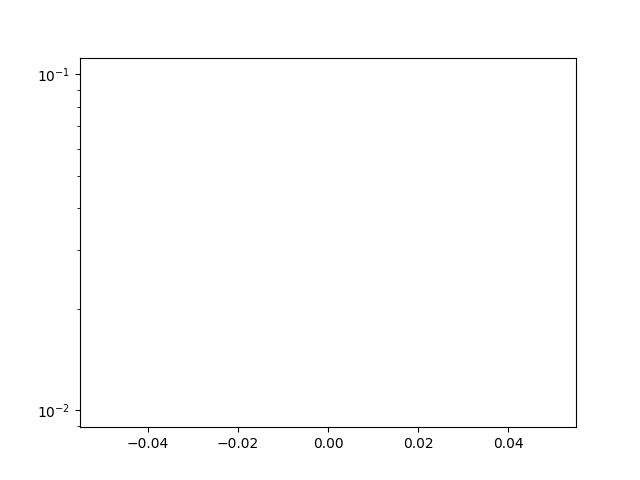
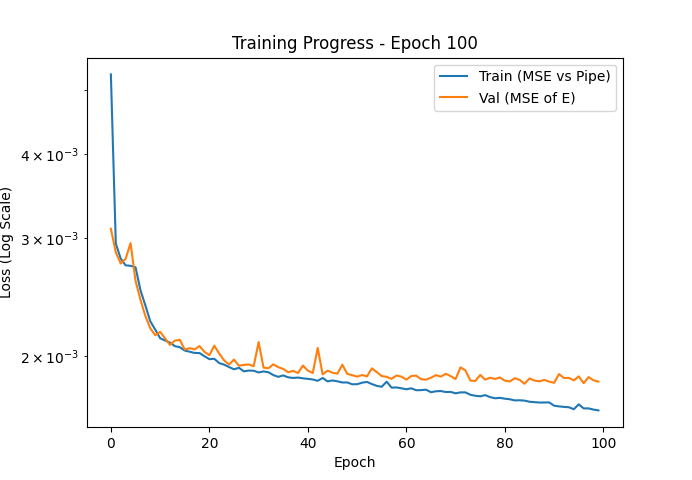
add split train/val/test and E computation from Pipe

diff --git a/dcf_generation/train_dcf.py b/dcf_generation/train_dcf.py
@@ -19,22 +19,19 @@ from dcf_utils import (
     plot_loss,
     plot_final_examples,
     train_step,
+    calculate_pipe_E,
+    plot_E_colormap,
 )
 from torch.utils.data import DataLoader
 from models import UNet1D, FourierCurve
 import os
 from datetime import datetime
 
-data_dir = "dcf_generation/train_data/"
-os.makedirs(data_dir, exist_ok=True)
 output_dir = "trained_models/"
-dataset = TrajectoryDCFDataset(data_dir)
 
-n_epochs = 2
+n_epochs = 100
 batch_size = 64
 learning_rate = 5e-4
-n_steps = 100  # total steps. After [n_epochs*len(train_data)/batch_size] steps, start computing dcfs if not already doing so.
-compute_dcfs = False
 
 device = torch.device("cuda") if torch.cuda.is_available() else torch.device("mps")
 print("Device:", device)
@@ -44,9 +41,6 @@ print("Device:", device)
 dcfnet = UNet1D(in_channels=2, out_channels=1, features=[16, 32, 64, 128, 256], kernel_size=5).to(device)
 # dcfnet = ResNet1D().to(device)
 
-if len(dataset) > 0:
-    dataloader = DataLoader(dataset, batch_size=batch_size, shuffle=True)
-    dataloader_cycle = cycle(dataloader)
 optimizer = torch.optim.AdamW(dcfnet.parameters(), lr=learning_rate)
 model = FourierCurve(
     tmin=0,
@@ -58,58 +52,111 @@ model = FourierCurve(
     angle_lvl=0.05,
 ).to(device)
 
-losses = []
-best_loss = float("inf")
+# --- Dataloaders ---
+base_data_dir = "dcf_generation/train_data/"
+train_dataset = TrajectoryDCFDataset(os.path.join(base_data_dir, "train"))
+val_dataset = TrajectoryDCFDataset(os.path.join(base_data_dir, "val"))
+test_dataset = TrajectoryDCFDataset(os.path.join(base_data_dir, "test"))
+
+train_dataloader = DataLoader(train_dataset, batch_size=batch_size, shuffle=True)
+val_dataloader = DataLoader(val_dataset, batch_size=batch_size, shuffle=False)
+test_dataloader = DataLoader(test_dataset, batch_size=batch_size, shuffle=False)
+
+
+# --- Training Loop ---
+best_val_loss = float("inf")
 t0 = time()
-dcfnet.train()
-for step in range(n_steps):
-    if step >= n_epochs * len(dataset) / batch_size:
-        compute_dcfs = True
-    if compute_dcfs:
-        with torch.no_grad():
-            rosette_batch = get_rosette_batch(model, batch_size, device=device)
-            dcf_batch = get_dcf_batch(rosette_batch)
-            # petal_batch = get_petal_batch_from_rosette(rosette_batch)
-            # dcf_petal_batch = get_dcf_petal_batch_from_dcf(dcf_batch)
-            for i in range(batch_size):
-                timestamp = datetime.now().strftime("%Y%m%d_%H%M%S")
-                # pt = petal_batch[i].detach().cpu().contiguous()
-                # dcf = dcf_petal_batch[i].detach().cpu().contiguous()
-                pt = rosette_batch[i].detach().cpu().contiguous()
-                dcf = dcf_batch[i].detach().cpu().contiguous()
-                torch.save((pt, dcf), os.path.join(data_dir, f"{timestamp}_{i}.pt"))
-    else:
-        # petal_batch, dcf_petal_batch = next(dataloader_cycle)
-        rosette_batch, dcf_batch = next(dataloader_cycle)
-    # loss, dcf_pred_batch = train_step(dcfnet, optimizer, petal_batch, dcf_petal_batch, device=device)
-    loss, dcf_pred_batch = train_step(dcfnet, optimizer, rosette_batch, dcf_batch, device=device)
-    if loss < 0.99 * best_loss:
-        torch.save((dcfnet.state_dict(), dcfnet.kernel_size, dcfnet.features), os.path.join(output_dir, f"dcfnet_{params["img_size"]}_{dcfnet.name}.pt"))
-        best_loss = loss
+train_losses_history = []
+val_losses_history = []
 
-    losses.append(loss)
-    if compute_dcfs == True or step % 20 == 0:
-        t0 = plot_loss(losses, step, n_steps, t0, batch_size)
+for epoch in range(n_epochs):
+    # Training Phase
+    dcfnet.train()
+    epoch_train_losses = []
+    
+    for rosette_batch, dcf_batch in train_dataloader:
+        loss, dcf_pred_batch = train_step(dcfnet, optimizer, rosette_batch, dcf_batch, device=device)
+        epoch_train_losses.append(loss)
+    
+    avg_train_loss = np.mean(epoch_train_losses)
+    train_losses_history.append(avg_train_loss)
 
+    # Validation Phase
+    dcfnet.eval()
+    epoch_val_losses = []
+    
+    with torch.no_grad():
+        for val_rosette_batch, val_dcf_batch in val_dataloader:
+            ktraj = val_rosette_batch.to(device).permute(0, 2, 1).contiguous()
+            val_dcf_batch = val_dcf_batch.to(device)
+            
+            dcf_pred_batch = dcfnet(ktraj).squeeze(1)
+            
+            val_loss = torch.mean((val_dcf_batch - dcf_pred_batch) ** 2)
+            epoch_val_losses.append(val_loss.item())
 
-print("FINAL LOSS", np.mean(losses[-100:]).item())
-plot_loss(losses, n_steps, n_steps, t0, batch_size, block=False)
+    avg_val_loss = np.mean(epoch_val_losses)
+    val_losses_history.append(avg_val_loss)
 
-rosette_batch = get_rosette_batch(model, 128, device=device)
-dcf_batch = get_dcf_batch(rosette_batch)
-# petal_batch = get_petal_batch_from_rosette(rosette_batch)
-# dcf_petal_batch = get_dcf_petal_batch_from_dcf(dcf_batch)
+    # Plot the losses
+    t0 = plot_loss(train_losses_history, val_losses_history, epoch, n_epochs, t0)
 
+    # Save Best Model
+    if avg_val_loss < best_val_loss:
+        torch.save((dcfnet.state_dict(), dcfnet.kernel_size, dcfnet.features), 
+                   os.path.join(output_dir, f"dcfnet_{params['img_size']}_{dcfnet.name}_best.pt"))
+        best_val_loss = avg_val_loss
+
+# --- Evaluation on Test Set ---
+print("\n--- Final Test Set Evaluation ---")
 dcfnet.eval()
+test_l1_losses, test_l2_losses = [], []
+
+last_ktraj = None
+last_dcf_pred = None
+
 with torch.no_grad():
-    for i in range(128):
-        timestamp = datetime.now().strftime("%Y%m%d_%H%M%S")
-        pt = rosette_batch[i].detach().cpu().contiguous()
-        dcf = dcf_batch[i].detach().cpu().contiguous()
-        torch.save((pt, dcf), os.path.join(data_dir, f"{timestamp}_{i}.pt"))
-    dcf_pred_batch = dcfnet(rosette_batch.permute(0, 2, 1)).squeeze(1)
-    l1loss = torch.mean((dcf_batch - dcf_pred_batch).abs())
-    l2loss = torch.mean((dcf_batch - dcf_pred_batch) ** 2)
-    plot_final_examples(dcf_batch, dcf_pred_batch)
-    print("Final L1 Loss:", l1loss.item())
-    print("Final L2 Loss:", l2loss.item())
+    for test_rosette_batch, test_dcf_batch in test_dataloader:
+        ktraj = test_rosette_batch.to(device).permute(0, 2, 1).contiguous()
+        test_dcf_batch = test_dcf_batch.to(device)
+        
+        dcf_pred_batch = dcfnet(ktraj).squeeze(1)
+        
+        l1loss = torch.mean((test_dcf_batch - dcf_pred_batch).abs())
+        l2loss = torch.mean((test_dcf_batch - dcf_pred_batch) ** 2)
+        
+        test_l1_losses.append(l1loss.item())
+        test_l2_losses.append(l2loss.item())
+        
+        last_ktraj = ktraj
+        last_dcf_pred = dcf_pred_batch
+
+print(f"Final Test L1 Loss: {np.mean(test_l1_losses):.6f}")
+print(f"Final Test L2 Loss: {np.mean(test_l2_losses):.6f}")
+
+# True vs Pred DCF
+plot_final_examples(test_dcf_batch, last_dcf_pred)
+
+# E Colormap
+print("Computing E = AA^HW for the final test batch...")
+
+with torch.no_grad():
+    # Calculate raw E
+    E_raw = calculate_pipe_E(last_dcf_pred, last_ktraj, params["img_size"], device)
+    
+    # Normalize E so the average density is exactly 1.0
+    E_normalized = E_raw / (E_raw.mean(dim=1, keepdim=True) + 1e-8)
+    
+    # Plot the colormap of the rosette trajectory
+    plot_E_colormap(E_normalized, last_ktraj)
+
+with torch.no_grad():
+    # Calculate raw E using the TRUE DCF
+    E_raw_true = calculate_pipe_E(test_dcf_batch, last_ktraj, params["img_size"], device)
+    
+    # Normalize
+    E_normalized_true = E_raw_true / (E_raw_true.mean(dim=1, keepdim=True) + 1e-8)
+    
+    # Plot the colormap of the true rosette density
+    print("Plotting TRUE DCF Effective Density...")
+    plot_E_colormap(E_normalized_true, last_ktraj)

diff --git a/dcf_generation/dcf_utils.py b/dcf_generation/dcf_utils.py
@@ -4,6 +4,7 @@ import torch
 from params import *
 from utils_3 import make_rosette, get_rotation_matrix
 from torchkbnufft import calc_density_compensation_function
+import torchkbnufft as tkbn
 import matplotlib.pyplot as plt
 from time import time
 import numpy as np
@@ -63,17 +64,23 @@ def plot_example(petal, block=True):
     plt.show(block=block)
 
 
-def plot_loss(losses, step, n_steps, t0, batch_size, block=False):
+def plot_loss(train_losses, val_losses, epoch, n_epochs, t0, block=False):
     plt.cla()
-    plt.semilogy(losses)
+    plt.semilogy(train_losses, label='Train')
+    plt.semilogy(val_losses, label='Val')
+    plt.legend()
+    plt.xlabel('Epoch')
+    plt.ylabel('Loss (Log Scale)')
+    plt.title(f'Training Progress - Epoch {epoch+1}')
     plt.pause(0.001)
     plt.savefig("dcf_generation/loss_plot.png")
     plt.show(block=block)
-    print("Step:", step, "/", n_steps)
-    print("Loss:", np.mean(losses[-10:]))
-    print("Batch size:", batch_size)
-    print("-" * 50)
-    print("Time", time() - t0)
+    
+    print("-" * 30)
+    print(f"Epoch: {epoch+1}/{n_epochs}")
+    print(f"Train Loss: {train_losses[-1]:.6f}")
+    print(f"Val Loss: {val_losses[-1]:.6f}")
+    print(f"Time: {time() - t0:.2f}s")
     return time()
 
 
@@ -98,3 +105,46 @@ def train_step(dcfnet, optimizer, petal_batch, dcf_batch, device=torch.device("c
     loss.backward()
     optimizer.step()
     return loss.item(), dcf_pred_batch
+
+
+def calculate_pipe_E(w_pred, ktraj, img_size, device):
+    """
+    Computes E = |A A^H W| to evaluate DCF quality.
+    w_pred: (Batch, N_points)
+    ktraj: (Batch, 2, N_points)
+    """
+    im_shape = (img_size, img_size)
+    fwd_op = tkbn.KbNufft(im_size=im_shape).to(device)
+    adj_op = tkbn.KbNufftAdjoint(im_size=im_shape).to(device)
+    
+    if w_pred.dim() == 2:
+        w_pred = w_pred.unsqueeze(1) # Add channel dim: (B, 1, N)
+    
+    w_complex = torch.complex(w_pred, torch.zeros_like(w_pred))
+    
+    # Adjoint then Forward
+    grid_density = adj_op(w_complex, ktraj)
+    E_complex = fwd_op(grid_density, ktraj)
+
+    return E_complex.abs().squeeze(1)
+
+def plot_E_colormap(E_batch, ktraj_batch, num_examples=3):
+
+    n_plots = min(num_examples, E_batch.shape[0])
+    fig, ax = plt.subplots(1, n_plots, figsize=(5 * n_plots, 4))
+    
+    if n_plots == 1:
+        ax = [ax] 
+        
+    for i in range(n_plots):
+        kx = ktraj_batch[i, 0, :].detach().cpu().numpy()
+        ky = ktraj_batch[i, 1, :].detach().cpu().numpy()
+        e_vals = E_batch[i, :].detach().cpu().numpy()
+    
+        sc = ax[i].scatter(kx, ky, c=e_vals, cmap='coolwarm', s=0.5, vmin=0.5, vmax=1.5)
+        ax[i].set_title(f"Example {i+1}: $E=AA^HW$")
+        ax[i].axis('equal')
+        fig.colorbar(sc, ax=ax[i])
+        
+    plt.tight_layout()
+    plt.show()

diff --git a/dcf_generation/organize_traindata.py b/dcf_generation/organize_traindata.py
@@ -1,0 +1,27 @@
+import os
+import random
+import shutil
+from glob import glob
+
+data_dir = "dcf_generation/train_data/"
+files = glob(os.path.join(data_dir, "*.pt"))
+random.shuffle(files)
+
+n_files = len(files)
+train_split = int(0.8 * n_files)
+val_split = int(0.9 * n_files)
+
+splits = {
+    "train": files[:train_split],
+    "val": files[train_split:val_split],
+    "test": files[val_split:]
+}
+
+# Create folders and move files
+for split_name, split_files in splits.items():
+    split_dir = os.path.join(data_dir, split_name)
+    os.makedirs(split_dir, exist_ok=True)
+    for f in split_files:
+        shutil.move(f, os.path.join(split_dir, os.path.basename(f)))
+
+print(f"Split complete: {len(splits['train'])} Train, {len(splits['val'])} Val, {len(splits['test'])} Test.")